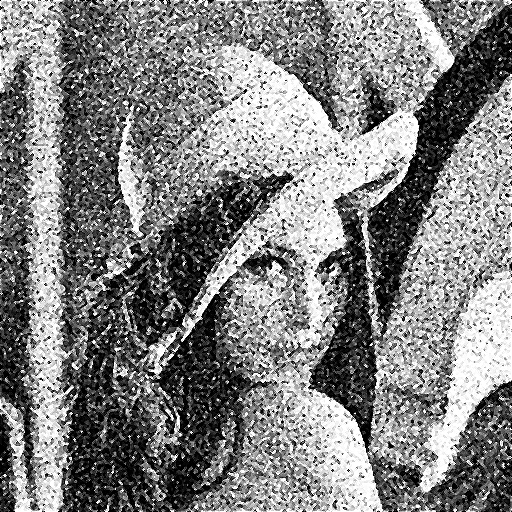
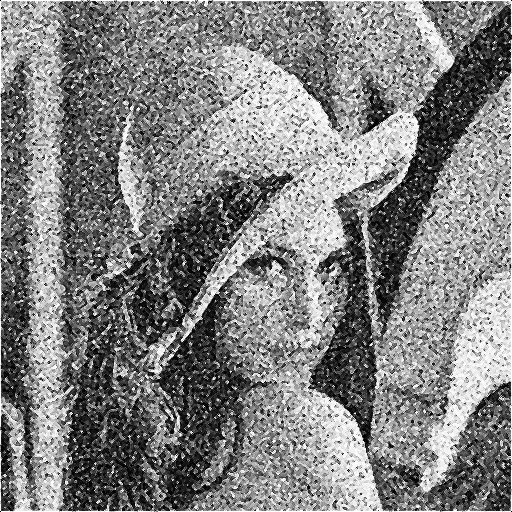
added mean filter 5x5, change input img name

diff --git a/mp1-image-restoration/mp1.py b/mp1-image-restoration/mp1.py
@@ -2,9 +2,12 @@ import cv2
 import numpy as np
 import matplotlib.pyplot as plt
 
+PLT_COL = 2
+PLT_ROW = 5
+PLT_WIDTH = 12
+PLT_HEIGHT = 12
+
 img_noisy = cv2.imread('input/test_image_lena_noisy.png', cv2.IMREAD_GRAYSCALE)
-
-
 
 if img_noisy is None:
     print('Image not found! please check your file')
@@ -45,6 +48,34 @@ def apply_median_filter(image, kernel_size=3):
     
     return result, hist
 
+def apply_mean_filter(image, hist):
+    print('loading mean filter...')
+    tinggi, lebar = image.shape
+    result = np.zeros((tinggi, lebar), dtype=np.uint8)
+    hist_temp = np.zeros(256, dtype=int)
+
+    # Kernel rata-rata untuk mean filter
+    kernel = np.ones((5, 5)) / 25.0
+
+    offset = kernel.shape[0] // 2
+    padded_image = np.pad(image, offset, mode='constant', constant_values=0)
+
+    for i in range(tinggi):
+        for j in range(lebar):
+            window = padded_image[i : i + kernel.shape[0], j : j + kernel.shape[1]]
+
+            value = np.sum(window * kernel)
+
+            if value > 255:
+                value = 255
+            elif value < 0:
+                value = 0
+
+            result[i, j] = value
+            hist_temp[result[i, j]] += 1
+
+    return result, hist_temp
+
 def apply_histogram_eq(image, hist):
     print('loading histogram equalization')
     tinggi, lebar = image.shape
@@ -81,10 +112,11 @@ def apply_histogram_eq(image, hist):
 
     return result, hist_temp
 
-def sharpening(image):
+def sharpening(image, hist):
     print('loading sharpening...')
     tinggi, lebar = image.shape
     result = np.zeros((tinggi, lebar), dtype=np.uint8)
+    hist_temp = np.zeros(256, dtype=int)
 
     # Kernal laplacian untuk sharpen
     kernel = np.array([
@@ -108,8 +140,9 @@ def sharpening(image):
                 value = 0
 
             result[i, j] = value
+            hist_temp[result[i, j]] += 1
 
-    return result
+    return result, hist_temp
 
 
 
@@ -119,59 +152,83 @@ if __name__ == '__main__':
 
     img_denoised, hist_denoised = apply_median_filter(img_noisy, kernel_size=3)
 
-    img_equalized, hist_equalized = apply_histogram_eq(img_denoised, hist_denoised)
+    img_mean_denoised, hist_mean_denoised = apply_mean_filter(img_denoised, hist_denoised)
 
-    img_sharpened = sharpening(img_equalized)
+    img_sharpened, hist_sharpened = sharpening(img_denoised, hist_denoised)
 
-    plt.figure(figsize=(12, 8))
+    img_equalized, hist_equalized = apply_histogram_eq(img_sharpened, hist_sharpened)
+
+    plt.figure(figsize=(PLT_WIDTH, PLT_HEIGHT))
 
     # gambar noisy
-    plt.subplot(4, 2, 1)
+    plt.subplot(PLT_ROW, PLT_COL, 1)
     plt.imshow(img_noisy, cmap='gray', vmin=0, vmax=255)
     plt.title('Image noisy')
     plt.axis('off')
 
     # histogram noisy
-    plt.subplot(4, 2, 2)
+    plt.subplot(PLT_ROW, PLT_COL, 2)
     plt.bar(range(256), hist_noisy, color='black', width=1)
     plt.title('Histogram noisy')
     plt.xlabel('Intensitas pixel (0-255)')
     plt.ylabel('Frekuensi')
 
+    # gamber mean denoise
+    plt.subplot(PLT_ROW, PLT_COL, 3)
+    plt.imshow(img_mean_denoised, cmap='gray', vmin=0, vmax=255)
+    plt.title("Mean Filter (denoised)")
+    plt.axis('off')
+
+    # histogram mean denoise
+    plt.subplot(PLT_ROW, PLT_COL, 4)
+    plt.bar(range(256), hist_mean_denoised, color='black', width=1)
+    plt.title('Histogram denoised (Mean Filter)')
+    plt.xlabel('Intensitas pixel (0-255)')
+    plt.ylabel('Frekuensi')
+
     # gambar denoise
-    plt.subplot(4, 2, 3)
+    plt.subplot(PLT_ROW, PLT_COL, 5)
     plt.imshow(img_denoised, cmap='gray', vmin=0, vmax=255)
     plt.title("Median Filter (denoised)")
     plt.axis('off')
 
     # histogram denoise
-    plt.subplot(4, 2, 4)
+    plt.subplot(PLT_ROW, PLT_COL, 6)
     plt.bar(range(256), hist_denoised, color='black', width=1)
     plt.title('Histogram denoised (Median Filter)')
     plt.xlabel('Intensitas pixel (0-255)')
     plt.ylabel('Frekuensi')
 
+    # gambar sharpened
+    plt.subplot(PLT_ROW, PLT_COL, 7)
+    plt.imshow(img_sharpened, cmap='gray', vmin=0, vmax=255)
+    plt.title('Sharpened')
+    plt.axis('off')
+
+    # histogram sharpened
+    plt.subplot(PLT_ROW, PLT_COL, 8)
+    plt.bar(range(256), hist_sharpened, color='black', width=1)
+    plt.title('Histogram Sharpened')
+    plt.xlabel('Intensitas pixel (0-255)')
+    plt.ylabel('Frekuensi')
+
+
     # gambar equalized
-    plt.subplot(4, 2, 5)
+    plt.subplot(PLT_ROW, PLT_COL, 9)
     plt.imshow(img_equalized, cmap='gray', vmin=0, vmax=255)
     plt.title("Image Equalized")
     plt.axis('off')
 
     # histogram equalize
-    plt.subplot(4, 2, 6)
+    plt.subplot(PLT_ROW, PLT_COL, 10)
     plt.bar(range(256), hist_equalized, color='black', width=1)
     plt.title('Histogram Equalized')
     plt.xlabel('Intensitas pixel (0-255)')
     plt.ylabel('Frekuensi')
 
-    # gambar sharpened
-    plt.subplot(4, 2, 7)
-    plt.imshow(img_sharpened, cmap='gray', vmin=0, vmax=255)
-    plt.title('Sharpened (Final Result)')
-    plt.axis('off')
 
     plt.tight_layout()
     plt.show()
 
-    cv2.imwrite('output/lena_restored.png', img_sharpened)
+    cv2.imwrite('output/lena_restored.png', img_equalized)
     print('Restored image saved in output/')
